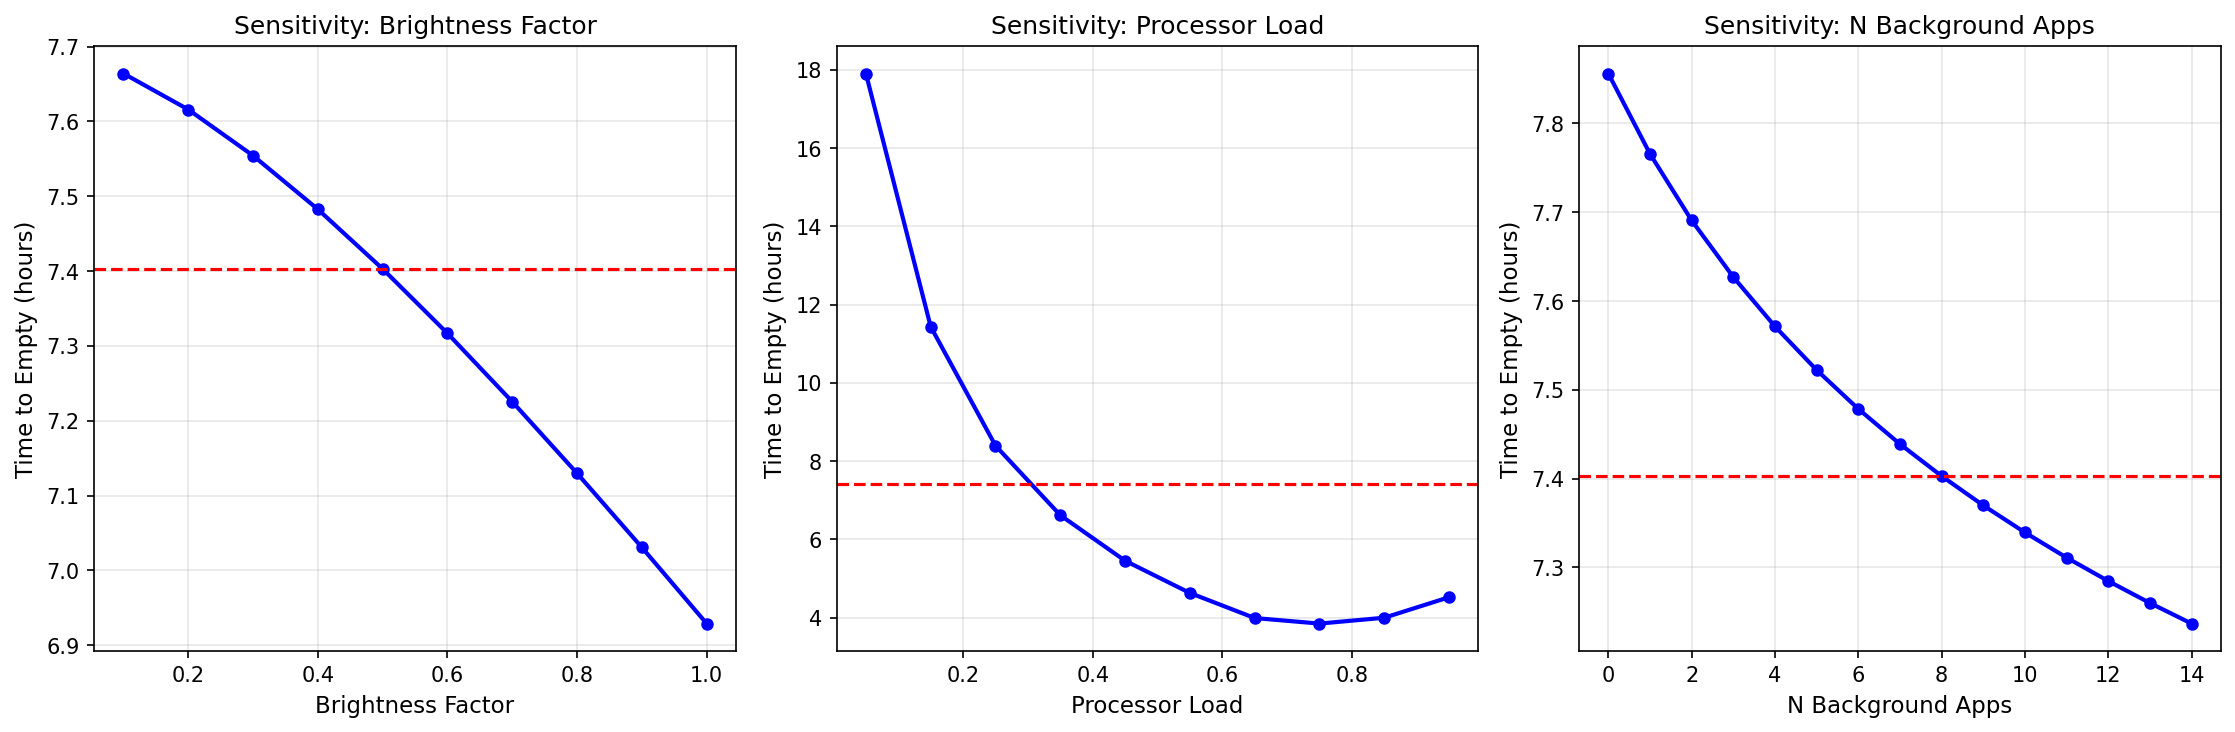
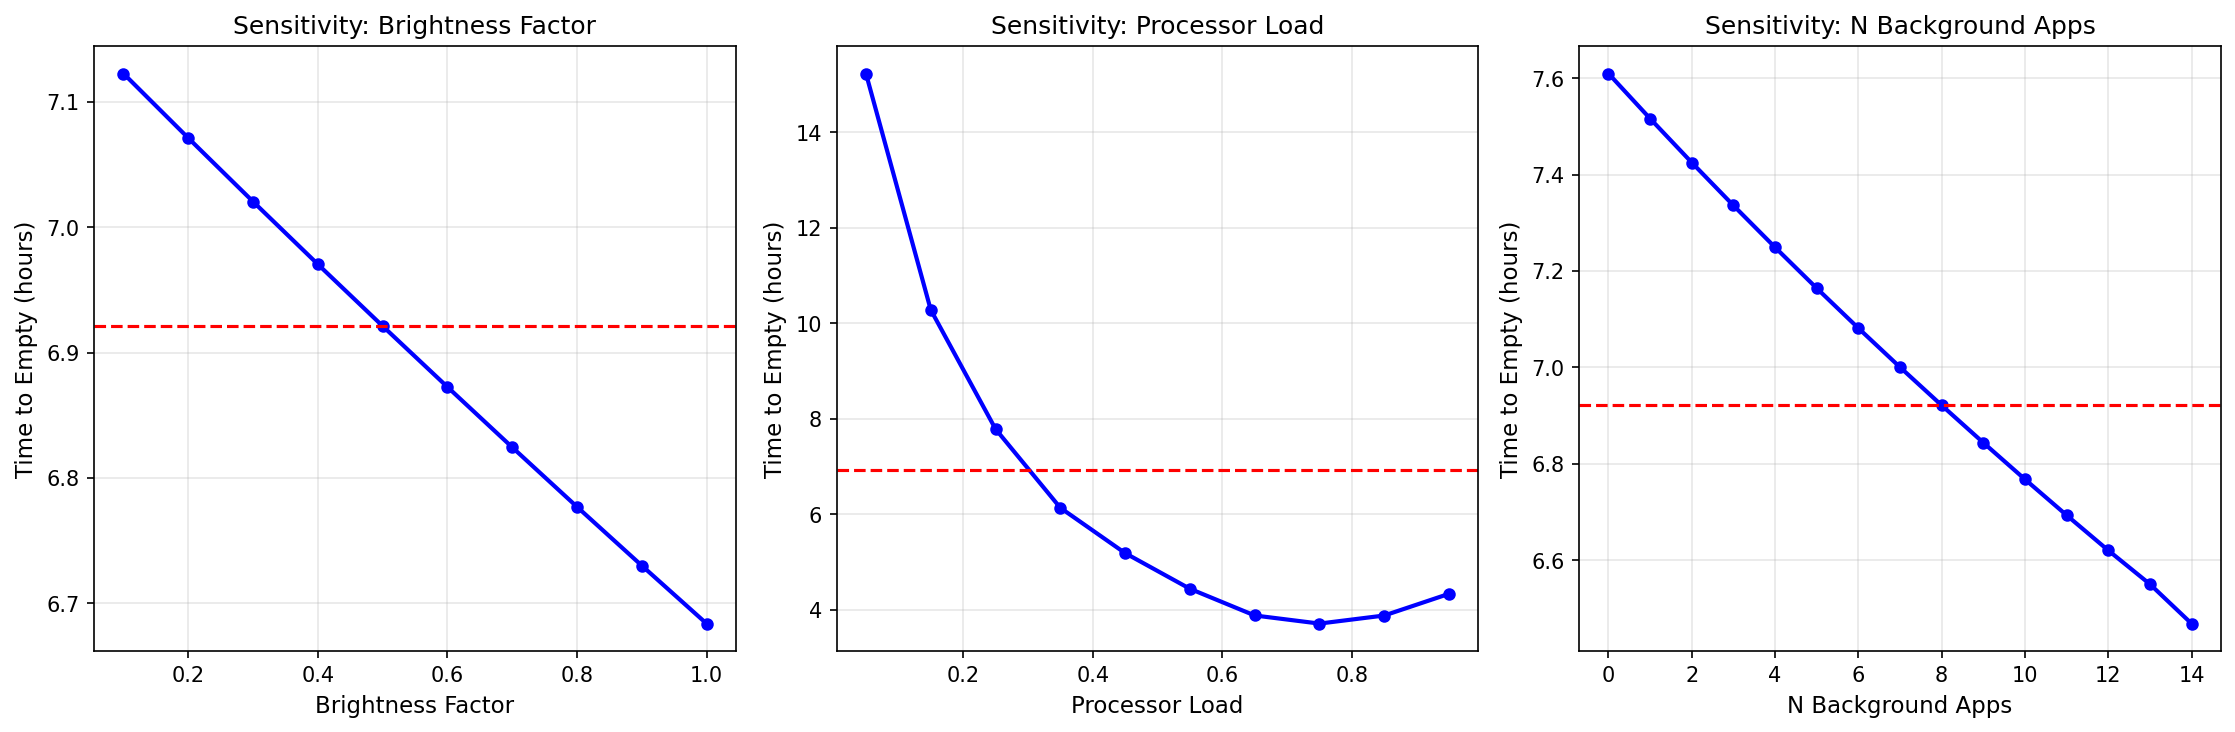
Revert to literature-based linear relationships for brightness and background apps

diff --git a/battery_model.py b/battery_model.py
@@ -258,16 +258,11 @@ class SmartphoneBatteryModel:
             
         P_total = usage.P_idle
         
-        # Screen power (non-linear: AMOLED/LCD efficiency drops at high brightness)
-        # Power increases slowly at low brightness, accelerates at high brightness
-        # Based on empirical OLED power measurements showing ~quadratic relationship
+        # Screen power - linear relationship with brightness
+        # Based on Carroll & Heiser (2010) [3] smartphone power measurements
+        # Screen power scales linearly with brightness setting
         if usage.screen_on:
-            # Non-linear brightness model: P = P_base * (0.3 + 0.7 * brightness^1.5)
-            # At 0% brightness: 30% of base power (backlight/always-on pixels)
-            # At 100% brightness: 100% of base power
-            # The exponent 1.5 creates realistic acceleration at high brightness
-            brightness_power_factor = 0.3 + 0.7 * (usage.brightness_factor ** 1.5)
-            P_total += usage.P_screen_base * brightness_power_factor
+            P_total += usage.P_screen_base * (0.5 + 0.5 * usage.brightness_factor)
         
         # Processor power with thermal throttling
         thermal_factor = self.calculate_thermal_throttling_factor(usage, duration_hours)
@@ -301,16 +296,10 @@ class SmartphoneBatteryModel:
         if usage.gps_active:
             P_total += usage.P_gps
             
-        # Background apps (diminishing returns due to OS resource management)
-        # First few apps have full impact, additional apps have reduced marginal effect
-        # Models: memory sharing, CPU scheduling limits, and system-level throttling
-        # Using logarithmic saturation: P = P_base * k * ln(1 + n/k) where k controls saturation rate
-        if usage.n_background_apps > 0:
-            k = 5.0  # Saturation constant: effect starts diminishing after ~5 apps
-            # This gives approximately linear behavior for first few apps,
-            # then saturates (e.g., 10 apps ≈ 1.6x effect of 5 apps, not 2x)
-            background_power = usage.P_background_app * k * np.log(1 + usage.n_background_apps / k)
-            P_total += background_power
+        # Background apps - linear relationship
+        # Each background app adds a fixed power consumption
+        # Based on Pathak et al. (2012) [4] energy accounting measurements
+        P_total += usage.P_background_app * usage.n_background_apps
         
         # Power saving mode reduces all power by ~30%
         if usage.power_saving_mode:
@@ -966,22 +955,15 @@ def run_comprehensive_analysis():
     # Create breakdown for moderate usage
     usage = scenarios['moderate']
     
-    # Non-linear brightness calculation (same as in calculate_power_consumption)
-    brightness_power = usage.P_screen_base * (0.3 + 0.7 * (usage.brightness_factor ** 1.5)) if usage.screen_on else 0
-    
-    # Non-linear background apps calculation (same as in calculate_power_consumption)
-    k = 5.0
-    background_power = usage.P_background_app * k * np.log(1 + usage.n_background_apps / k) if usage.n_background_apps > 0 else 0
-    
     breakdown = {
         'Idle': usage.P_idle,
-        'Screen': brightness_power,
+        'Screen': usage.P_screen_base * (0.5 + 0.5 * usage.brightness_factor) if usage.screen_on else 0,
         'Processor': usage.P_processor_idle + (usage.P_processor_max - usage.P_processor_idle) * usage.processor_load,
         'WiFi': usage.P_wifi if usage.wifi_active else 0,
         'Cellular': usage.P_cellular if usage.cellular_active else 0,
         'Bluetooth': usage.P_bluetooth if usage.bluetooth_active else 0,
         'GPS': usage.P_gps if usage.gps_active else 0,
-        'Background Apps': background_power
+        'Background Apps': usage.P_background_app * usage.n_background_apps
     }
     
     total = sum(breakdown.values())
